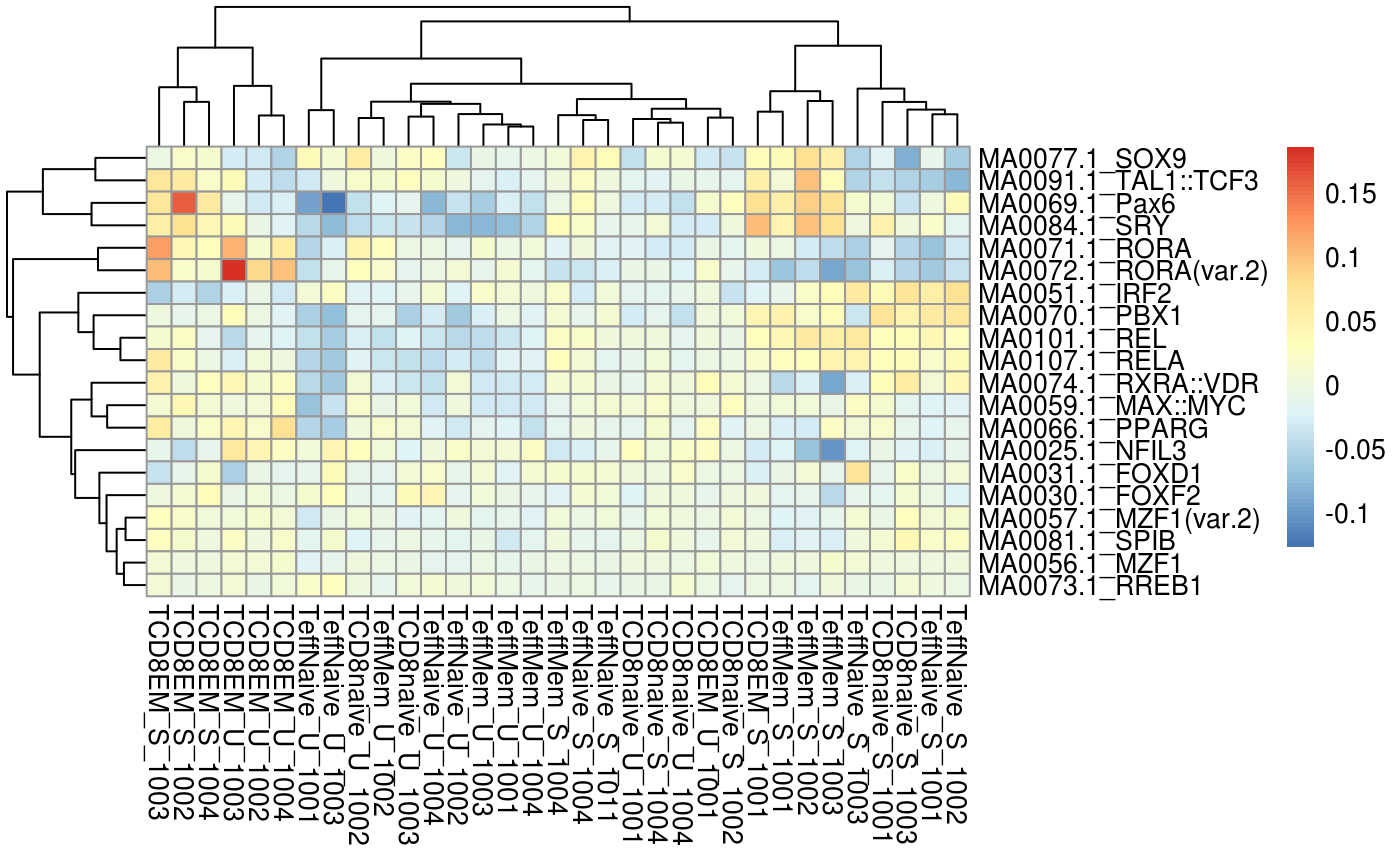
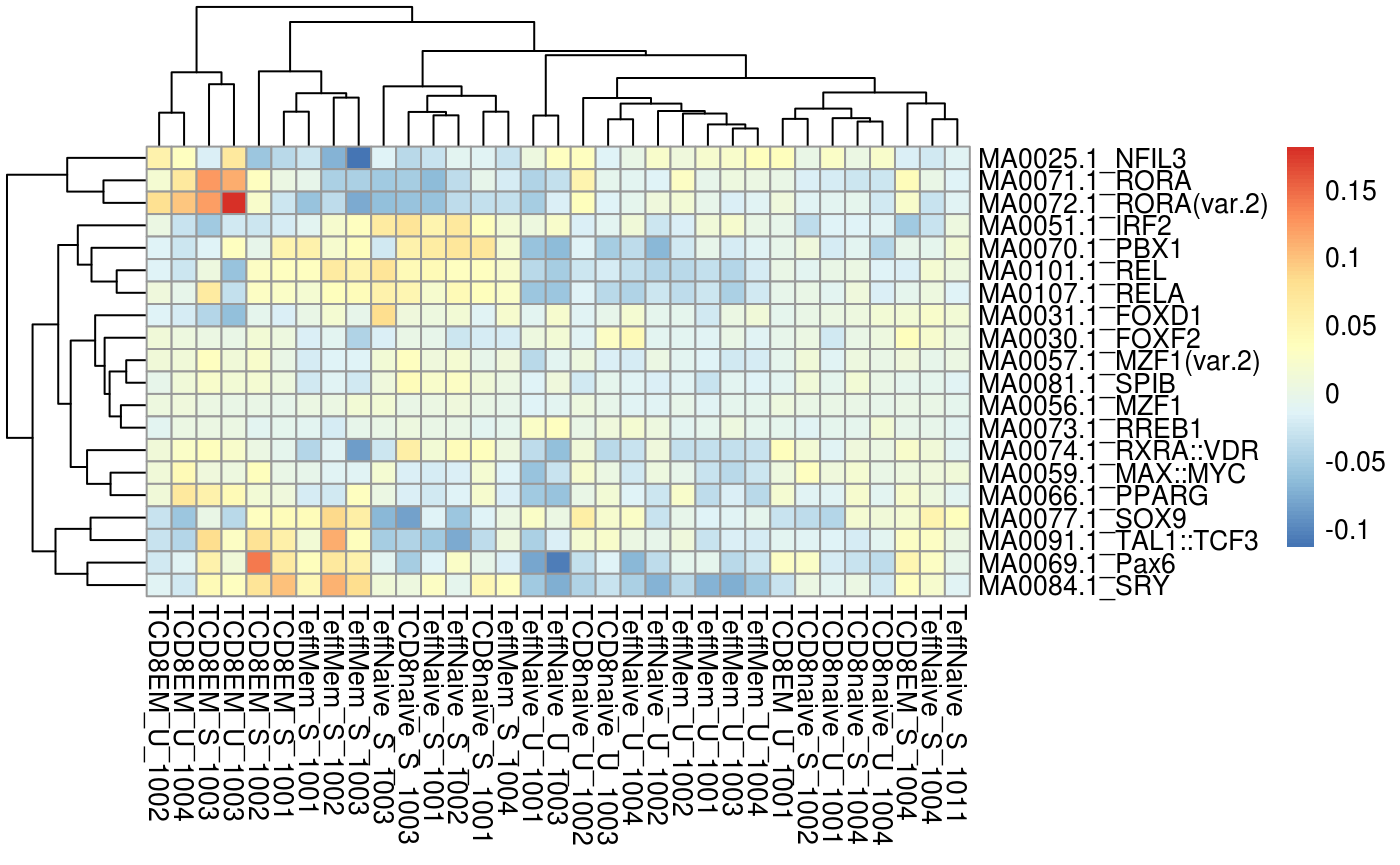
Deploy demuellae/ChrAccR to github.com/demuellae/ChrAccR.git:gh-pages

diff --git a/articles/overview.html b/articles/overview.html
@@ -127,15 +127,15 @@ using ChrAccR</div></h1>
 <a class="sourceLine" id="cb4-3" data-line-number="3"><span class="kw"><a href="https://www.rdocumentation.org/packages/ggplot2/topics/theme_get">theme_set</a></span>(muRtools<span class="op">::</span><span class="kw"><a href="https://www.rdocumentation.org/packages/muRtools/topics/theme_nogrid">theme_nogrid</a></span>())</a></code></pre></div>
 <p>The example data used in this vignette was designed for illustrating the functionality of <code>ChrAccR</code> rather than a full analysis. It contains ATAC-seq data for a subset of different T cell samples from the immune atlas dataset <span class="citation">(Calderon et al. <a href="#ref-Calderon:2018ha">2018</a>)</span> and it focuses on only a subset of the human genome (approximately 1%). It can be loaded using:</p>
 <div class="sourceCode" id="cb5"><pre class="sourceCode r"><code class="sourceCode r"><a class="sourceLine" id="cb5-1" data-line-number="1">dsa &lt;-<span class="st"> </span>ChrAccRex<span class="op">::</span><span class="kw"><a href="https://www.rdocumentation.org/packages/ChrAccRex/topics/loadExample">loadExample</a></span>(<span class="st">"dsAtac_ia_example"</span>)</a></code></pre></div>
-<pre><code>&gt; 2019-06-05 05:52:50     0.8  STATUS STARTED Loading region count data from HDF5
-&gt; 2019-06-05 05:52:50     0.8  STATUS     Region type: promoters_gc_protein_coding
-&gt; 2019-06-05 05:52:50     0.8  STATUS     Region type: IA_prog_peaks
-&gt; 2019-06-05 05:52:50     0.8  STATUS     Region type: t200
-&gt; 2019-06-05 05:52:50     0.8  STATUS     Region type: t10k
-&gt; 2019-06-05 05:52:50     0.8  STATUS COMPLETED Loading region count data from HDF5
+<pre><code>&gt; 2019-06-05 17:01:16     0.8  STATUS STARTED Loading region count data from HDF5
+&gt; 2019-06-05 17:01:16     0.8  STATUS     Region type: promoters_gc_protein_coding
+&gt; 2019-06-05 17:01:16     0.8  STATUS     Region type: IA_prog_peaks
+&gt; 2019-06-05 17:01:16     0.8  STATUS     Region type: t200
+&gt; 2019-06-05 17:01:16     0.8  STATUS     Region type: t10k
+&gt; 2019-06-05 17:01:16     0.8  STATUS COMPLETED Loading region count data from HDF5
 &gt; 
-&gt; 2019-06-05 05:52:50     0.8  STATUS STARTED Updating fragment RDS file references
-&gt; 2019-06-05 05:52:50     0.8  STATUS COMPLETED Updating fragment RDS file references</code></pre>
+&gt; 2019-06-05 17:01:16     0.8  STATUS STARTED Updating fragment RDS file references
+&gt; 2019-06-05 17:01:16     0.8  STATUS COMPLETED Updating fragment RDS file references</code></pre>
 </div>
 </div>
 <div id="overview-of-chraccr-data-structures" class="section level1">
@@ -388,18 +388,18 @@ using ChrAccR</div></h1>
 <p>There are also shortcuts for filtering certain regions from the dataset, for example:</p>
 <div class="sourceCode" id="cb31"><pre class="sourceCode r"><code class="sourceCode r"><a class="sourceLine" id="cb31-1" data-line-number="1"><span class="co"># remove those regions that do not have at least 10 insertions in at least 75% of the samples</span></a>
 <a class="sourceLine" id="cb31-2" data-line-number="2">dsa_filtered &lt;-<span class="st"> </span><span class="kw"><a href="../reference/filterLowCovg-DsATAC-method.html">filterLowCovg</a></span>(dsa, <span class="dt">thresh=</span>10L, <span class="dt">reqSamples=</span><span class="fl">0.75</span>)</a></code></pre></div>
-<pre><code>&gt; 2019-06-05 05:52:56     0.9  STATUS Removing regions with read counts lower than 10 in more than 8 samples (24%)
-&gt; 2019-06-05 05:52:56     0.9    INFO Removed 0 regions (0%) of type promoters_gc_protein_coding
-&gt; 2019-06-05 05:52:56     0.9    INFO Removed 0 regions (0%) of type IA_prog_peaks
-&gt; 2019-06-05 05:53:01     1.1    INFO Removed 5555 regions (4.11%) of type t200
-&gt; 2019-06-05 05:53:01     1.1    INFO Removed 4 regions (0.15%) of type t10k</code></pre>
+<pre><code>&gt; 2019-06-05 17:01:22     0.9  STATUS Removing regions with read counts lower than 10 in more than 8 samples (24%)
+&gt; 2019-06-05 17:01:22     0.9    INFO Removed 0 regions (0%) of type promoters_gc_protein_coding
+&gt; 2019-06-05 17:01:22     0.9    INFO Removed 0 regions (0%) of type IA_prog_peaks
+&gt; 2019-06-05 17:01:27     1.1    INFO Removed 5555 regions (4.11%) of type t200
+&gt; 2019-06-05 17:01:28     1.1    INFO Removed 4 regions (0.15%) of type t10k</code></pre>
 <div class="sourceCode" id="cb33"><pre class="sourceCode r"><code class="sourceCode r"><a class="sourceLine" id="cb33-1" data-line-number="1"><span class="co"># remove regions on chromosome 21</span></a>
 <a class="sourceLine" id="cb33-2" data-line-number="2">dsa_filtered &lt;-<span class="st"> </span><span class="kw"><a href="../reference/filterChroms-DsATAC-method.html">filterChroms</a></span>(dsa, <span class="dt">exclChrom=</span><span class="kw"><a href="https://www.rdocumentation.org/packages/base/topics/c">c</a></span>(<span class="st">"chr21"</span>))</a></code></pre></div>
-<pre><code>&gt; 2019-06-05 05:53:01     1.1    INFO Removed 64 regions (30.48%) of type promoters_gc_protein_coding
-&gt; 2019-06-05 05:53:02     1.1    INFO Removed 7118 regions (51.84%) of type IA_prog_peaks
-&gt; 2019-06-05 05:53:03     1.1    INFO Removed 89001 regions (65.92%) of type t200
-&gt; 2019-06-05 05:53:03     1.1    INFO Removed 1781 regions (65.87%) of type t10k
-&gt; 2019-06-05 05:53:03     1.1  STATUS Filtering fragment data</code></pre>
+<pre><code>&gt; 2019-06-05 17:01:28     1.1    INFO Removed 64 regions (30.48%) of type promoters_gc_protein_coding
+&gt; 2019-06-05 17:01:28     1.1    INFO Removed 7118 regions (51.84%) of type IA_prog_peaks
+&gt; 2019-06-05 17:01:30     1.2    INFO Removed 89001 regions (65.92%) of type t200
+&gt; 2019-06-05 17:01:30     1.2    INFO Removed 1781 regions (65.87%) of type t10k
+&gt; 2019-06-05 17:01:30     1.2  STATUS Filtering fragment data</code></pre>
 <p>To remove a region type entirely, use <code>removeRegionType</code>:</p>
 <div class="sourceCode" id="cb35"><pre class="sourceCode r"><code class="sourceCode r"><a class="sourceLine" id="cb35-1" data-line-number="1">dsa_not10k &lt;-<span class="st"> </span><span class="kw"><a href="../reference/removeRegionType-DsATAC-method.html">removeRegionType</a></span>(dsa, <span class="st">"t10k"</span>)</a>
 <a class="sourceLine" id="cb35-2" data-line-number="2"><span class="kw"><a href="../reference/getRegionTypes-DsAcc-method.html">getRegionTypes</a></span>(dsa_not10k)</a></code></pre></div>
@@ -412,32 +412,32 @@ using ChrAccR</div></h1>
 <p><code>ChrAccR</code> provides several methods for normalizing and adjusting the region count data. These methods can be accessed through the <code>transformCounts</code> function:</p>
 <div class="sourceCode" id="cb37"><pre class="sourceCode r"><code class="sourceCode r"><a class="sourceLine" id="cb37-1" data-line-number="1"><span class="co"># quantile normalization for all region types</span></a>
 <a class="sourceLine" id="cb37-2" data-line-number="2">dsa_qnorm &lt;-<span class="st"> </span><span class="kw"><a href="../reference/transformCounts-DsATAC-method.html">transformCounts</a></span>(dsa, <span class="dt">method=</span><span class="st">"quantile"</span>)</a></code></pre></div>
-<pre><code>&gt; 2019-06-05 05:53:14     1.1  STATUS STARTED Performing quantile normalization
-&gt; 2019-06-05 05:53:14     1.1  STATUS     Region type: promoters_gc_protein_coding
-&gt; 2019-06-05 05:53:14     1.2  STATUS     Region type: IA_prog_peaks
-&gt; 2019-06-05 05:53:14     1.2  STATUS     Region type: t200
-&gt; 2019-06-05 05:53:17     1.3  STATUS     Region type: t10k
-&gt; 2019-06-05 05:53:17     1.3  STATUS COMPLETED Performing quantile normalization</code></pre>
+<pre><code>&gt; 2019-06-05 17:01:40     1.2  STATUS STARTED Performing quantile normalization
+&gt; 2019-06-05 17:01:40     1.2  STATUS     Region type: promoters_gc_protein_coding
+&gt; 2019-06-05 17:01:40     1.2  STATUS     Region type: IA_prog_peaks
+&gt; 2019-06-05 17:01:40     1.2  STATUS     Region type: t200
+&gt; 2019-06-05 17:01:43     1.3  STATUS     Region type: t10k
+&gt; 2019-06-05 17:01:43     1.3  STATUS COMPLETED Performing quantile normalization</code></pre>
 <div class="sourceCode" id="cb39"><pre class="sourceCode r"><code class="sourceCode r"><a class="sourceLine" id="cb39-1" data-line-number="1"><span class="co"># RPKM normalization of peak counts</span></a>
 <a class="sourceLine" id="cb39-2" data-line-number="2">dsa_rpkm &lt;-<span class="st"> </span><span class="kw"><a href="../reference/transformCounts-DsATAC-method.html">transformCounts</a></span>(dsa, <span class="dt">method=</span><span class="st">"RPKM"</span>, <span class="dt">regionTypes=</span><span class="kw"><a href="https://www.rdocumentation.org/packages/base/topics/c">c</a></span>(<span class="st">"IA_prog_peaks"</span>))</a></code></pre></div>
-<pre><code>&gt; 2019-06-05 05:53:17     1.3  STATUS STARTED Performing RPKM normalization
-&gt; 2019-06-05 05:53:17     1.3  STATUS     Region type: IA_prog_peaks
-&gt; 2019-06-05 05:53:17     1.2  STATUS COMPLETED Performing RPKM normalization</code></pre>
+<pre><code>&gt; 2019-06-05 17:01:44     1.3  STATUS STARTED Performing RPKM normalization
+&gt; 2019-06-05 17:01:44     1.3  STATUS     Region type: IA_prog_peaks
+&gt; 2019-06-05 17:01:44     1.2  STATUS COMPLETED Performing RPKM normalization</code></pre>
 <div class="sourceCode" id="cb41"><pre class="sourceCode r"><code class="sourceCode r"><a class="sourceLine" id="cb41-1" data-line-number="1"><span class="co"># log2(RPKM)</span></a>
 <a class="sourceLine" id="cb41-2" data-line-number="2">dsa_l2rpkm &lt;-<span class="st"> </span><span class="kw"><a href="../reference/transformCounts-DsATAC-method.html">transformCounts</a></span>(dsa_rpkm, <span class="dt">method=</span><span class="st">"log2"</span>, <span class="dt">regionTypes=</span><span class="kw"><a href="https://www.rdocumentation.org/packages/base/topics/c">c</a></span>(<span class="st">"IA_prog_peaks"</span>))</a></code></pre></div>
-<pre><code>&gt; 2019-06-05 05:53:17     1.2  STATUS STARTED log2 transforming counts
-&gt; 2019-06-05 05:53:17     1.2  STATUS     Region type: IA_prog_peaks
-&gt; 2019-06-05 05:53:18     1.2  STATUS COMPLETED log2 transforming counts</code></pre>
+<pre><code>&gt; 2019-06-05 17:01:44     1.2  STATUS STARTED log2 transforming counts
+&gt; 2019-06-05 17:01:44     1.2  STATUS     Region type: IA_prog_peaks
+&gt; 2019-06-05 17:01:44     1.2  STATUS COMPLETED log2 transforming counts</code></pre>
 <div class="sourceCode" id="cb43"><pre class="sourceCode r"><code class="sourceCode r"><a class="sourceLine" id="cb43-1" data-line-number="1"><span class="co"># DESeq2 variance stabilizing transformation (vst)</span></a>
 <a class="sourceLine" id="cb43-2" data-line-number="2">dsa_vst &lt;-<span class="st"> </span><span class="kw"><a href="../reference/transformCounts-DsATAC-method.html">transformCounts</a></span>(dsa, <span class="dt">method=</span><span class="st">"vst"</span>, <span class="dt">regionTypes=</span><span class="kw"><a href="https://www.rdocumentation.org/packages/base/topics/c">c</a></span>(<span class="st">"IA_prog_peaks"</span>))</a></code></pre></div>
-<pre><code>&gt; 2019-06-05 05:53:18     1.2  STATUS STARTED Applying DESeq2 VST
-&gt; 2019-06-05 05:53:19     1.3  STATUS     Region type: IA_prog_peaks
-&gt; 2019-06-05 05:53:21     1.2  STATUS COMPLETED Applying DESeq2 VST</code></pre>
+<pre><code>&gt; 2019-06-05 17:01:44     1.2  STATUS STARTED Applying DESeq2 VST
+&gt; 2019-06-05 17:01:46     1.3  STATUS     Region type: IA_prog_peaks
+&gt; 2019-06-05 17:01:48     1.2  STATUS COMPLETED Applying DESeq2 VST</code></pre>
 <div class="sourceCode" id="cb45"><pre class="sourceCode r"><code class="sourceCode r"><a class="sourceLine" id="cb45-1" data-line-number="1"><span class="co"># correct for potential batch effects based on the annotated donor</span></a>
 <a class="sourceLine" id="cb45-2" data-line-number="2">dsa_vst &lt;-<span class="st"> </span><span class="kw"><a href="../reference/transformCounts-DsATAC-method.html">transformCounts</a></span>(dsa_vst, <span class="dt">method=</span><span class="st">"batchCorrect"</span>, <span class="dt">batch=</span><span class="kw"><a href="../reference/getSampleAnnot-DsAcc-method.html">getSampleAnnot</a></span>(dsa_qnorm)[,<span class="st">"donor"</span>], <span class="dt">regionTypes=</span><span class="kw"><a href="https://www.rdocumentation.org/packages/base/topics/c">c</a></span>(<span class="st">"IA_prog_peaks"</span>))</a></code></pre></div>
-<pre><code>&gt; 2019-06-05 05:53:21     1.2  STATUS STARTED Applying batch effect correction
-&gt; 2019-06-05 05:53:22     1.2  STATUS     Region type: IA_prog_peaks
-&gt; 2019-06-05 05:53:22     1.2  STATUS COMPLETED Applying batch effect correction</code></pre>
+<pre><code>&gt; 2019-06-05 17:01:48     1.2  STATUS STARTED Applying batch effect correction
+&gt; 2019-06-05 17:01:48     1.2  STATUS     Region type: IA_prog_peaks
+&gt; 2019-06-05 17:01:48     1.2  STATUS COMPLETED Applying batch effect correction</code></pre>
 </div>
 <div id="adding-a-region-type-for-count-data-aggregation" class="section level3">
 <h3 class="hasAnchor">
@@ -460,11 +460,11 @@ using ChrAccR</div></h1>
 <a href="#merging-samples" class="anchor"></a>Merging samples</h3>
 <p>You can also merge samples, e.g. from different technical or biological replicates. In the following example, we merge all biological replicates (originating from different donors) for the same cell type and stimulation conditions. This grouping information is contained in the <code>sampleGroup</code> annotation column. By default, counts will be added up for each aggregated region, but you can specify other aggregation methods such as the mean or median in the <code>countAggrFun</code> argument.</p>
 <div class="sourceCode" id="cb48"><pre class="sourceCode r"><code class="sourceCode r"><a class="sourceLine" id="cb48-1" data-line-number="1">dsa_merged &lt;-<span class="st"> </span><span class="kw"><a href="../reference/mergeSamples-DsATAC-method.html">mergeSamples</a></span>(dsa, <span class="st">"sampleGroup"</span>, <span class="dt">countAggrFun=</span><span class="st">"sum"</span>)</a></code></pre></div>
-<pre><code>&gt; 2019-06-05 05:53:22     1.2  STATUS Merging samples (region set: 'promoters_gc_protein_coding')...
-&gt; 2019-06-05 05:53:22     1.2  STATUS Merging samples (region set: 'IA_prog_peaks')...
-&gt; 2019-06-05 05:53:22     1.2  STATUS Merging samples (region set: 't200')...
-&gt; 2019-06-05 05:53:24     1.4  STATUS Merging samples (region set: 't10k')...
-&gt; 2019-06-05 05:53:24     1.4  STATUS Merging sample fragment data...</code></pre>
+<pre><code>&gt; 2019-06-05 17:01:48     1.2  STATUS Merging samples (region set: 'promoters_gc_protein_coding')...
+&gt; 2019-06-05 17:01:49     1.2  STATUS Merging samples (region set: 'IA_prog_peaks')...
+&gt; 2019-06-05 17:01:49     1.2  STATUS Merging samples (region set: 't200')...
+&gt; 2019-06-05 17:01:51     1.4  STATUS Merging samples (region set: 't10k')...
+&gt; 2019-06-05 17:01:51     1.4  STATUS Merging sample fragment data...</code></pre>
 <div class="sourceCode" id="cb50"><pre class="sourceCode r"><code class="sourceCode r"><a class="sourceLine" id="cb50-1" data-line-number="1"><span class="kw"><a href="../reference/getSamples-DsAcc-method.html">getSamples</a></span>(dsa_merged)</a></code></pre></div>
 <pre><code>&gt; [1] "TCD8EM_S"    "TCD8EM_U"    "TCD8naive_S" "TCD8naive_U" "TeffMem_S"  
 &gt; [6] "TeffMem_U"   "TeffNaive_S" "TeffNaive_U"</code></pre>
@@ -476,25 +476,25 @@ using ChrAccR</div></h1>
 <p>In many analysis workflow, you want to save an R dataset to disk in order to use it in downstream analysis using custom R scripts. Note that R’s workflow of <code>saveRDS</code> <code>readRDS</code> is generally not applicable for saving and loading <code>DsATAC</code> datasets, because <code>ChrAccR</code> optionally uses disk-backed data structures in order to be more memory efficient in the analysis. Instead, please use <code>ChrAccR</code>’s functions:</p>
 <div class="sourceCode" id="cb52"><pre class="sourceCode r"><code class="sourceCode r"><a class="sourceLine" id="cb52-1" data-line-number="1">dest &lt;-<span class="st"> </span><span class="kw"><a href="https://www.rdocumentation.org/packages/base/topics/file.path">file.path</a></span>(<span class="kw"><a href="https://www.rdocumentation.org/packages/base/topics/tempfile">tempdir</a></span>(), <span class="st">"myDsAtacDataset"</span>)</a>
 <a class="sourceLine" id="cb52-2" data-line-number="2"><span class="kw"><a href="../reference/saveDsAcc.html">saveDsAcc</a></span>(dsa, dest)</a></code></pre></div>
-<pre><code>&gt; 2019-06-05 05:53:42     1.4  STATUS STARTED Saving region count data to HDF5
-&gt; 2019-06-05 05:53:42     1.4  STATUS     Region type: promoters_gc_protein_coding
-&gt; 2019-06-05 05:53:42     1.4  STATUS     Region type: IA_prog_peaks
-&gt; 2019-06-05 05:53:42     1.4  STATUS     Region type: t200
-&gt; 2019-06-05 05:53:44     1.5  STATUS     Region type: t10k
-&gt; 2019-06-05 05:53:44     1.5  STATUS COMPLETED Saving region count data to HDF5
+<pre><code>&gt; 2019-06-05 17:02:09     1.4  STATUS STARTED Saving region count data to HDF5
+&gt; 2019-06-05 17:02:09     1.4  STATUS     Region type: promoters_gc_protein_coding
+&gt; 2019-06-05 17:02:09     1.4  STATUS     Region type: IA_prog_peaks
+&gt; 2019-06-05 17:02:09     1.4  STATUS     Region type: t200
+&gt; 2019-06-05 17:02:11     1.5  STATUS     Region type: t10k
+&gt; 2019-06-05 17:02:11     1.5  STATUS COMPLETED Saving region count data to HDF5
 &gt; 
-&gt; 2019-06-05 05:53:44     1.5  STATUS STARTED Saving fragment data to RDS
-&gt; 2019-06-05 05:53:44     1.5  STATUS COMPLETED Saving fragment data to RDS</code></pre>
+&gt; 2019-06-05 17:02:11     1.5  STATUS STARTED Saving fragment data to RDS
+&gt; 2019-06-05 17:02:11     1.5  STATUS COMPLETED Saving fragment data to RDS</code></pre>
 <div class="sourceCode" id="cb54"><pre class="sourceCode r"><code class="sourceCode r"><a class="sourceLine" id="cb54-1" data-line-number="1">dsa_reloaded &lt;-<span class="st"> </span><span class="kw"><a href="../reference/loadDsAcc.html">loadDsAcc</a></span>(dest)</a></code></pre></div>
-<pre><code>&gt; 2019-06-05 05:53:44     1.5  STATUS STARTED Loading region count data from HDF5
-&gt; 2019-06-05 05:53:44     1.5  STATUS     Region type: promoters_gc_protein_coding
-&gt; 2019-06-05 05:53:45     1.5  STATUS     Region type: IA_prog_peaks
-&gt; 2019-06-05 05:53:45     1.5  STATUS     Region type: t200
-&gt; 2019-06-05 05:53:45     1.5  STATUS     Region type: t10k
-&gt; 2019-06-05 05:53:45     1.5  STATUS COMPLETED Loading region count data from HDF5
+<pre><code>&gt; 2019-06-05 17:02:11     1.5  STATUS STARTED Loading region count data from HDF5
+&gt; 2019-06-05 17:02:11     1.5  STATUS     Region type: promoters_gc_protein_coding
+&gt; 2019-06-05 17:02:11     1.5  STATUS     Region type: IA_prog_peaks
+&gt; 2019-06-05 17:02:11     1.5  STATUS     Region type: t200
+&gt; 2019-06-05 17:02:11     1.5  STATUS     Region type: t10k
+&gt; 2019-06-05 17:02:11     1.5  STATUS COMPLETED Loading region count data from HDF5
 &gt; 
-&gt; 2019-06-05 05:53:45     1.5  STATUS STARTED Updating fragment RDS file references
-&gt; 2019-06-05 05:53:45     1.5  STATUS COMPLETED Updating fragment RDS file references</code></pre>
+&gt; 2019-06-05 17:02:11     1.5  STATUS STARTED Updating fragment RDS file references
+&gt; 2019-06-05 17:02:11     1.5  STATUS COMPLETED Updating fragment RDS file references</code></pre>
 <div class="sourceCode" id="cb56"><pre class="sourceCode r"><code class="sourceCode r"><a class="sourceLine" id="cb56-1" data-line-number="1">dsa_reloaded</a></code></pre></div>
 <pre><code>&gt; DsATAC chromatin accessibility dataset 
 &gt; [contains disk-backed data] 
@@ -644,7 +644,7 @@ using ChrAccR</div></h1>
 <div class="sourceCode" id="cb72"><pre class="sourceCode r"><code class="sourceCode r"><a class="sourceLine" id="cb72-1" data-line-number="1">cvRes &lt;-<span class="st"> </span><span class="kw"><a href="../reference/getChromVarDev-DsATAC-method.html">getChromVarDev</a></span>(dsa, <span class="st">"IA_prog_peaks"</span>, <span class="dt">motifs=</span><span class="st">"jaspar"</span>)</a>
 <a class="sourceLine" id="cb72-2" data-line-number="2">devZ &lt;-<span class="st"> </span><span class="kw">deviations</span>(cvRes)</a>
 <a class="sourceLine" id="cb72-3" data-line-number="3"><span class="kw"><a href="https://www.rdocumentation.org/packages/utils/topics/str">str</a></span>(devZ)</a></code></pre></div>
-<pre><code>&gt;  num [1:452, 1:33] -0.02852 0.00481 -0.02374 -0.02016 -0.00252 ...
+<pre><code>&gt;  num [1:452, 1:33] -0.03782 0.00641 -0.0174 -0.02084 -0.00252 ...
 &gt;  - attr(*, "dimnames")=List of 2
 &gt;   ..$ : chr [1:452] "MA0025.1_NFIL3" "MA0030.1_FOXF2" "MA0031.1_FOXD1" "MA0051.1_IRF2" ...
 &gt;   ..$ : chr [1:33] "TCD8EM_S_1001" "TCD8EM_S_1002" "TCD8EM_S_1003" "TCD8EM_S_1004" ...</code></pre>

diff --git a/index.html b/index.html
@@ -72,6 +72,8 @@
       
       </header><div class="row">
   <div class="contents col-md-9">
+
+
 <div id="chraccr" class="section level1">
 <div class="page-header"><h1 class="hasAnchor">
 <a href="#chraccr" class="anchor"></a>ChrAccR <img src="reference/figures/chraccr_logo.png" align="right" style="position:absolute; top:0; right:0; padding:10px; height:96px;">
@@ -110,6 +112,7 @@
 <p>The <code>ChrAccR</code> <a href="https://demuellae.github.io/ChrAccR/articles/overview.html">vignette</a> provides a most excellent starting point to get familiar with the package.</p>
 </div>
 </div>
+
   </div>
 
   <div class="col-md-3 hidden-xs hidden-sm" id="sidebar">
@@ -127,7 +130,13 @@
 </ul>
 </div>
 
-  </div>
+  <div class="dev-status">
+<h2>Dev status</h2>
+<ul class="list-unstyled">
+<li><a href="https://travis-ci.org/demuellae/ChrAccR"><img src="https://travis-ci.org/demuellae/ChrAccR.svg?branch=master" alt="Build Status"></a></li>
+</ul>
+</div>
+</div>
 </div>
 
       <footer><div class="copyright">

diff --git a/reference/hmSeqLogo.html b/reference/hmSeqLogo.html
@@ -136,6 +136,10 @@ adapted from <code><a href='https://www.rdocumentation.org/packages/seqLogo/topi
       <td><p>x center coordinate where the motif should be drawn</p></td>
     </tr>
     <tr>
+      <th>y</th>
+      <td><p>y center coordinate where the motif should be drawn</p></td>
+    </tr>
+    <tr>
       <th>width</th>
       <td><p>drawing width</p></td>
     </tr>
@@ -146,10 +150,6 @@ adapted from <code><a href='https://www.rdocumentation.org/packages/seqLogo/topi
     <tr>
       <th>ic.scale</th>
       <td><p><code>logical</code> If TRUE, the height of each column is proportional to its information content. Otherwise, all columns have the same height.</p></td>
-    </tr>
-    <tr>
-      <th>x</th>
-      <td><p>y center coordinate where the motif should be drawn</p></td>
     </tr>
     </table>
     

diff --git a/reference/getMotifClustering.html b/reference/getMotifClustering.html
@@ -149,10 +149,6 @@ that can be used by <code><a href='https://www.rdocumentation.org/packages/motif
       <th>clusterMethod</th>
       <td><p>method to be used for motif clustering (currently only <code>'pam'</code> (PAM - partitioning around medoids) is supported)</p></td>
     </tr>
-    <tr>
-      <th>distMethod</th>
-      <td><p>method of dissimilarity quantification. Currently only <code>'jaspar'</code> (retrieve motif similarities from the annotation of the JASPAR website) is supported.</p></td>
-    </tr>
     </table>
     
     <h2 class="hasAnchor" id="value"><a class="anchor" href="#value"></a>Value</h2>

diff --git a/reference/getComparisonTable-DsAcc-method.html b/reference/getComparisonTable-DsAcc-method.html
@@ -139,10 +139,6 @@
       <th>compNames</th>
       <td><p>vector of character strings specifying a fixed comparison names to be parsed (format "$GRP1_NAME vs $GRP1_NAME [$ANNOTATION_COLUMN]")</p></td>
     </tr>
-    <tr>
-      <th>reaggregate</th>
-      <td><p>redo region aggregation (only has an effect if type is sites and there are aggregated regions in the dataset)</p></td>
-    </tr>
     </table>
     
     <h2 class="hasAnchor" id="value"><a class="anchor" href="#value"></a>Value</h2>

diff --git a/reference/DsAcc-class.html b/reference/DsAcc-class.html
@@ -129,6 +129,7 @@
   <dt><code>sampleAnnot</code></dt><dd><p>Sample annotation Table</p></dd>
   <dt><code>genome</code></dt><dd><p>Genome assembly</p></dd>
   <dt><code>diskDump</code></dt><dd><p>Flag indicating whether large matrices and objects will be kept on disk rather than in main memory.</p></dd>
+  <dt><code>pkgVersion</code></dt><dd><p>Version number of the ChrAccR package that created the object</p></dd>
 </dl>
     
 

diff --git a/reference/removeRegions-DsAcc-method.html b/reference/removeRegions-DsAcc-method.html
@@ -138,10 +138,6 @@
       <th>type</th>
       <td><p>character string specifying a name for the region type (sefault: sites)</p></td>
     </tr>
-    <tr>
-      <th>reaggregate</th>
-      <td><p>redo region aggregation (only has an effect if type is sites and there are aggregated regions in the dataset)</p></td>
-    </tr>
     </table>
     
     <h2 class="hasAnchor" id="value"><a class="anchor" href="#value"></a>Value</h2>

diff --git a/reference/getCoord-DsAcc-method.html b/reference/getCoord-DsAcc-method.html
@@ -134,10 +134,6 @@
       <th>type</th>
       <td><p>character string specifying the rgion type or <code>"sites"</code> (default)</p></td>
     </tr>
-    <tr>
-      <th>asMatrix</th>
-      <td><p>return a matrix instead of a <code>data.table</code></p></td>
-    </tr>
     </table>
     
     <h2 class="hasAnchor" id="value"><a class="anchor" href="#value"></a>Value</h2>
